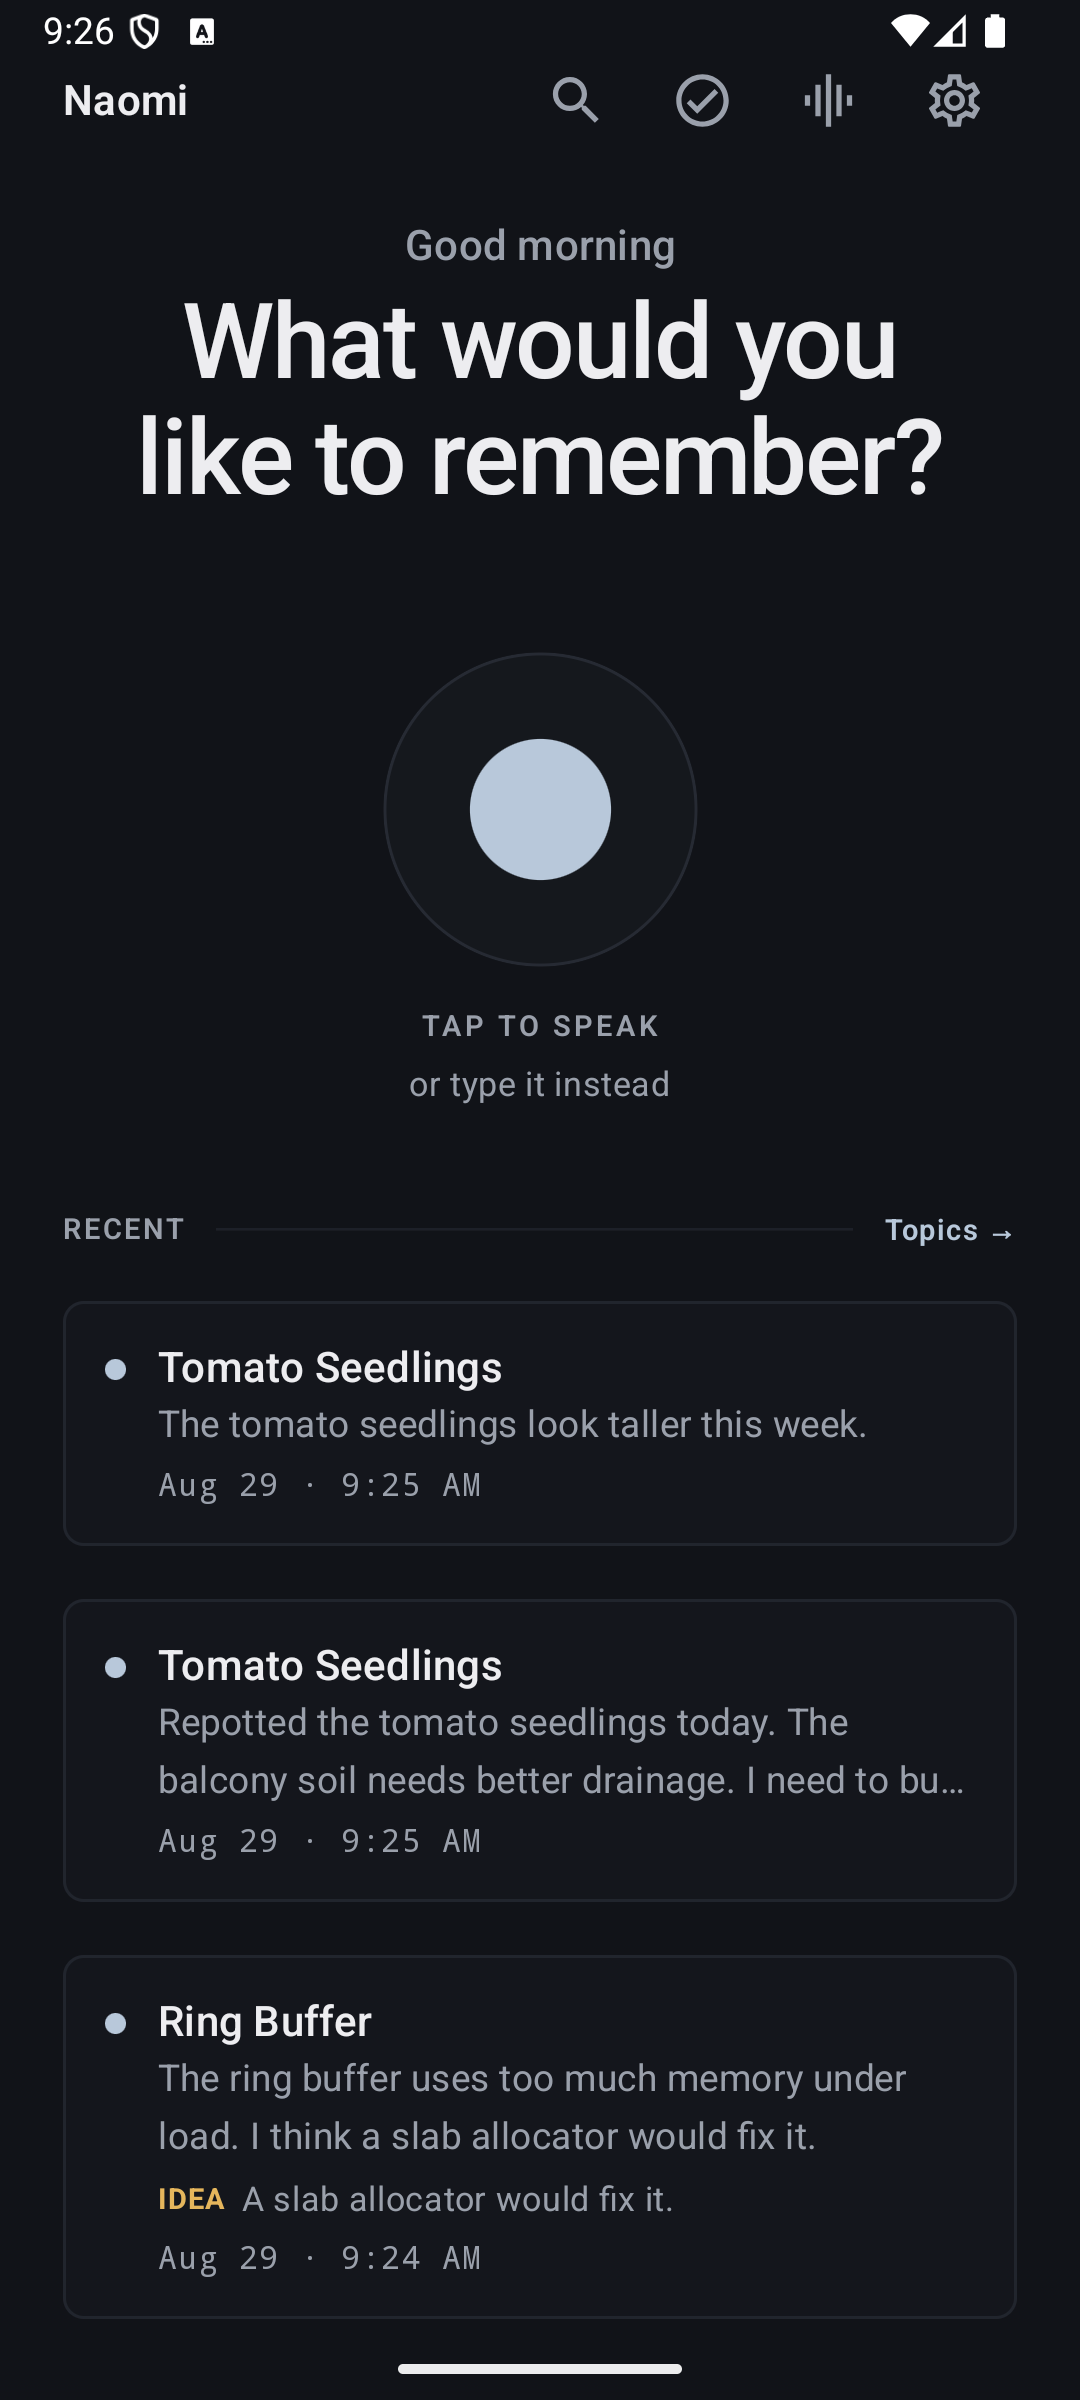
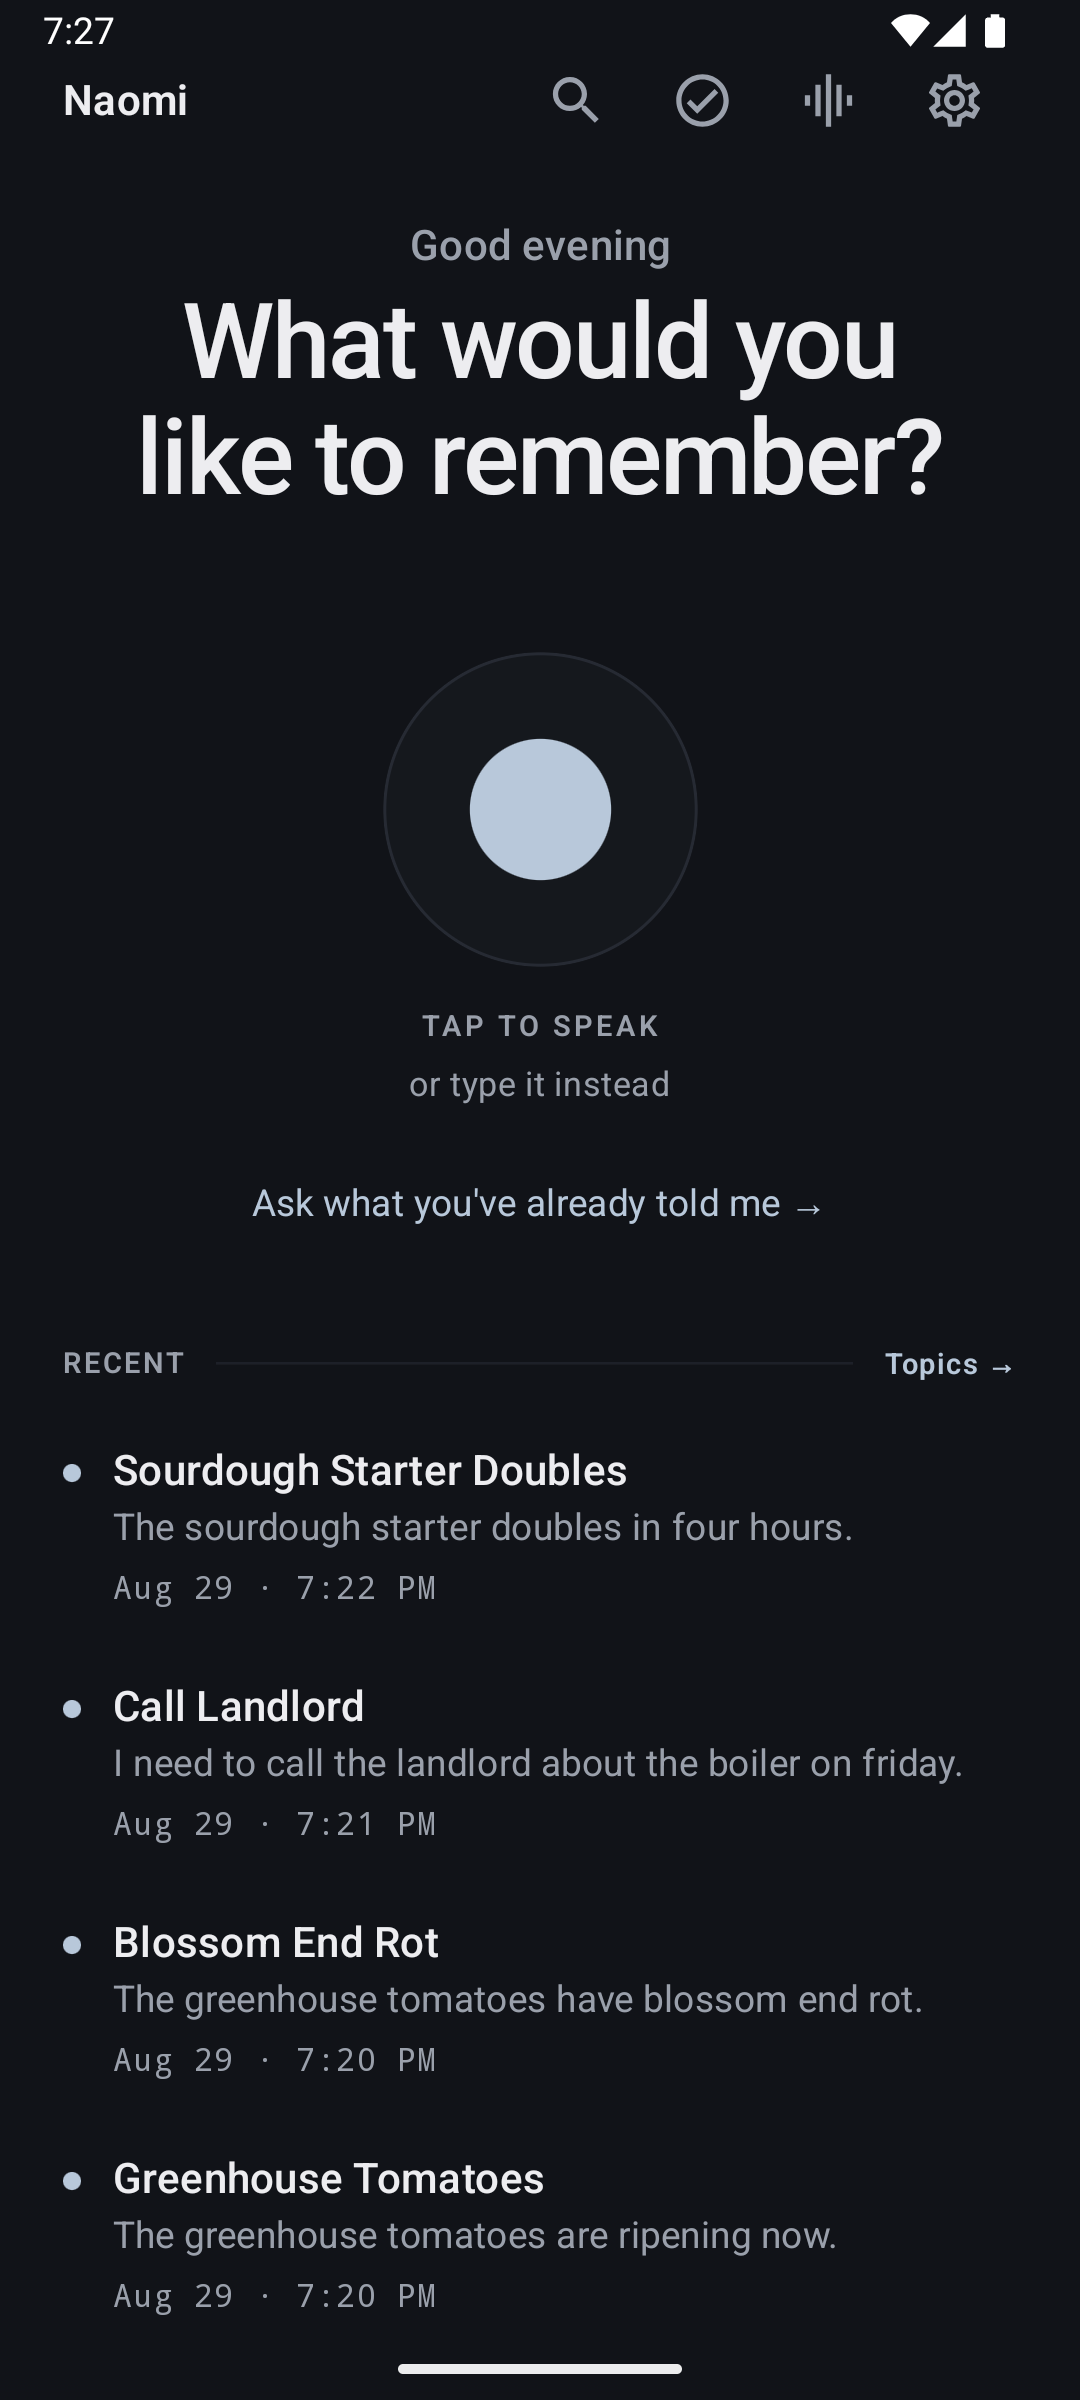
Real screenshots of the current app, and a README that matches it
Every screenshot predated the living-memory work, Ask Naomi, and the de-card
redesign, so the README was showing an app that no longer exists. All eleven
are recaptured from one session on a medium_phone emulator against the same
seeded memories, which is why the same greenhouse tomatoes run through all
of them.

The README now leads with what the app actually does. It described topic
grouping; the headline is now that saying more about something continues
that memory with a dated history instead of making a second note. The
example in the text is the one the screenshots show, so the two cannot
drift apart.

Two bugs found by taking the screenshots, both of which the test suite
could not have caught:

Opening a topic crashed. TopicDetailScreen lists subtopics, timeline days
and memories in one LazyColumn, keyed on raw database ids — but topic 2 and
note 2 are unrelated rows that happen to share an id, and Compose throws
when a key repeats. Any topic whose subtopic id collided with one of its
note ids died on open. Keys are now namespaced per table. Pre-existing, and
easy to never hit with a small database.

Related-topic pills could not wrap. A Row has no wrapping, so a third
related topic was squeezed into a sliver one character wide rather than
moving to the next line; the repository returns up to six. Now a FlowRow.

Also corrected in Status: reminders are inexact and Android gives them a
one-hour window; whether a thought continues a memory depends on what it
[…]

diff --git a/app/src/main/java/com/naomi/app/presentation/note/NoteDetailScreen.kt b/app/src/main/java/com/naomi/app/presentation/note/NoteDetailScreen.kt
@@ -6,6 +6,7 @@ import androidx.compose.foundation.background
 import androidx.compose.foundation.border
 import androidx.compose.foundation.clickable
 import androidx.compose.foundation.layout.*
+import androidx.compose.foundation.layout.FlowRow
 import androidx.compose.foundation.lazy.LazyColumn
 import androidx.compose.foundation.lazy.items
 import androidx.compose.foundation.shape.CircleShape
@@ -41,7 +42,7 @@ import com.naomi.app.presentation.theme.*
 import java.text.SimpleDateFormat
 import java.util.*
 
-@OptIn(ExperimentalMaterial3Api::class)
+@OptIn(ExperimentalMaterial3Api::class, ExperimentalLayoutApi::class)
 @Composable
 fun NoteDetailScreen(
     noteId: Long,
@@ -537,9 +538,14 @@ fun NoteDetailScreen(
                                         )
                                     }
 
-                                    Row(
+                                    // A Row cannot wrap, so a third related topic
+                                    // was squeezed into a sliver one character
+                                    // wide rather than moving to the next line.
+                                    // The repository returns up to six of these.
+                                    FlowRow(
                                         modifier = Modifier.fillMaxWidth(),
-                                        horizontalArrangement = Arrangement.spacedBy(8.dp)
+                                        horizontalArrangement = Arrangement.spacedBy(8.dp),
+                                        verticalArrangement = Arrangement.spacedBy(8.dp)
                                     ) {
                                         for (related in currentDetail.relatedTopics) {
                                             NaomiPill(

diff --git a/app/src/main/java/com/naomi/app/presentation/hierarchy/TopicDetailScreen.kt b/app/src/main/java/com/naomi/app/presentation/hierarchy/TopicDetailScreen.kt
@@ -184,7 +184,13 @@ fun TopicDetailScreen(
                     NaomiSectionHeader(title = "SUBTOPICS")
                 }
 
-                items(subtopics, key = { it.id }) { sub ->
+                // Keys are namespaced because this one LazyColumn lists rows from
+                // three different tables. Topic 2 and note 2 are unrelated rows
+                // with the same id, and Compose throws when a key repeats — so
+                // opening any topic whose subtopic id matched one of its note ids
+                // crashed the screen outright. Raw ids are only unique within
+                // their own table.
+                items(subtopics, key = { "sub-${it.id}" }) { sub ->
                     NaomiRow(onClick = { onNavigateToSubtopic(sub.id) }) {
                         Row(
                             modifier = Modifier.fillMaxWidth(),
@@ -214,7 +220,7 @@ fun TopicDetailScreen(
                     NaomiSectionHeader(title = "TIMELINE")
                 }
 
-                items(timelineDays, key = { it.label }) { day ->
+                items(timelineDays, key = { "day-${it.label}" }) { day ->
                     Column(verticalArrangement = Arrangement.spacedBy(NaomiSpacing.sm)) {
                         Text(
                             text = day.label,
@@ -288,7 +294,7 @@ fun TopicDetailScreen(
                     )
                 }
             } else {
-                items(notes, key = { it.id }) { note ->
+                items(notes, key = { "note-${it.id}" }) { note ->
                     MemoryRow(
                         note = note,
                         onClick = { onNavigateToNoteDetail(note.id) }

diff --git a/README.md b/README.md
@@ -15,39 +15,54 @@ filed, connected memory — without leaving your phone.
 
 ## What it does
 
-Most note apps give you a list. Naomi gives you a structure, built out of your own
-words as you go.
+Most note apps give you a list. Naomi gives you a subject that grows.
 
 Say this:
 
-> "The ring buffer in Nyx is stable now. Synchronisation between the producer and
-> consumer still drops frames. I need to profile the fence waits tomorrow."
+> "The greenhouse tomatoes are flowering early."
 
-Naomi produces:
+Naomi titles it **Greenhouse Tomatoes** and files it. Then, days later, you say:
 
-| | |
-|---|---|
-| **Title** | Ring Buffer |
-| **Filed under** | `Ring Buffer` |
-| **Task** | Profile the fence waits — due tomorrow, as a real date |
+> "I fixed the greenhouse tomatoes with crushed eggshell."
 
-Then say this, a day later:
-
-> "The ring buffer uses too much memory under load. I think a slab allocator would
-> fix it."
-
-It does **not** create a second "Ring Buffer" topic. It recognises the subject you
-already have, files the memory there, nests `Slab Allocator` beneath it, and pulls
-out the idea you flagged with "I think".
+It does **not** make a second note. It recognises the thing you are already
+talking about, adds this to that memory's history, and updates what the memory
+currently says. Say a third thing and it does the same. One subject, dated, in the
+order you said it:
 
 <div align="center">
-<img src="docs/screenshots/topics.png" width="260" alt="Knowledge tree" />
-<img src="docs/screenshots/memory.png" width="260" alt="A single memory with its topic path and extracted task" />
-<img src="docs/screenshots/tasks.png" width="260" alt="Tasks bucketed by resolved due date" />
+<img src="docs/screenshots/memory.png" width="260" alt="One memory with three dated entries under a HISTORY heading" />
+<img src="docs/screenshots/timeline.png" width="260" alt="A topic's timeline: everything said under it and everything beneath it" />
+<img src="docs/screenshots/topics.png" width="260" alt="The knowledge tree, with subtopics nested under the subject they came from" />
 </div>
 
-That grouping is the whole product. A note app that files every sentence under a
-new heading has not organised anything.
+Later, ask for it back in the words you would actually use:
+
+> "What did I say about the greenhouse tomatoes?"
+
+<div align="center">
+<img src="docs/screenshots/ask.png" width="260" alt="Ask Naomi answering a spoken question from local memories" />
+<img src="docs/screenshots/tasks.png" width="260" alt="Tasks bucketed by resolved due date" />
+<img src="docs/screenshots/search.png" width="260" alt="Search finding a word that appears only inside a memory's history" />
+</div>
+
+Nothing in that answer is generated. Every line is either a fixed phrase or text
+you recorded yourself — see [Ask Naomi](#ask-naomi) below.
+
+That accumulation is the whole product. A note app that files every sentence as a
+new item has not remembered anything; it has taken dictation.
+
+### Ask Naomi
+
+Recall runs entirely against the local store, and it never writes prose on your
+behalf. The one sentence Naomi says in its own voice reports counts — *"You've
+said 4 things about "greenhouse tomatoes", across 2 memories"* — so it has no way
+to be wrong about content. There is deliberately no generated-answer case in the
+`Answer` type.
+
+An assistant that invents a plausible memory is worse than one that says it has
+nothing, because you cannot tell the two apart. What Naomi hands back being what
+you actually said is the entire promise.
 
 ---
 
@@ -193,25 +208,43 @@ duplicate you can fix in one tap. The threshold reflects that asymmetry.
 
 ## Screenshots
 
-| Knowledge tree | Search | Settings |
+| Home | A memory and its history | A topic's timeline |
 |---|---|---|
-| <img src="docs/screenshots/topics.png" width="220" /> | <img src="docs/screenshots/search.png" width="220" /> | <img src="docs/screenshots/settings.png" width="220" /> |
+| <img src="docs/screenshots/home.png" width="220" alt="Home screen" /> | <img src="docs/screenshots/memory.png" width="220" alt="Memory detail with history" /> | <img src="docs/screenshots/timeline.png" width="220" alt="Topic timeline" /> |
 
-| Dark | Ambient mode | Widget |
+| Ask Naomi | Knowledge tree | Tasks |
 |---|---|---|
-| <img src="docs/screenshots/dark-mode.png" width="220" /> | <img src="docs/screenshots/ambient.png" width="220" /> | <img src="docs/screenshots/widget.png" width="220" /> |
+| <img src="docs/screenshots/ask.png" width="220" alt="Ask Naomi" /> | <img src="docs/screenshots/topics.png" width="220" alt="Knowledge tree" /> | <img src="docs/screenshots/tasks.png" width="220" alt="Tasks" /> |
 
-All screenshots are from the running app on a `medium_phone` emulator, not from
-mockups.
+| Search | Settings & Privacy Center | Ambient mode |
+|---|---|---|
+| <img src="docs/screenshots/search.png" width="220" alt="Search" /> | <img src="docs/screenshots/settings.png" width="220" alt="Settings" /> | <img src="docs/screenshots/ambient.png" width="220" alt="Ambient mode" /> |
+
+| Dark | Widget on the home screen |
+|---|---|
+| <img src="docs/screenshots/dark-mode.png" width="220" alt="Dark theme" /> | <img src="docs/screenshots/widget.png" width="220" alt="The widget pinned to the launcher" /> |
+
+All of these are the running app on a `medium_phone` emulator, captured from one
+session against the same memories — which is why the same greenhouse tomatoes
+appear across them. None are mockups.
+
+That is worth stating because it was not always true: earlier versions of this
+file showed a `widget.png` containing no widget and a `dark-mode.png` containing
+no dark mode, both the same stock launcher screenshot.
 
 ---
 
 ## Architecture
 
+Three Gradle modules. The split is the privacy boundary, not organisation for its
+own sake — see [what the networked code is allowed to know](#the-other-half-what-the-networked-code-is-allowed-to-know).
+
 ```
-app/src/main/java/com/naomi/app/
+app/                      The application. No network capability in the
+│                         offline flavour, which is the one that ships.
 ├── ai/intelligence/      Lexicon, KeyphraseExtractor, TopicResolver,
-│                         TopicMatcher, TaskExtractor, TemporalParser
+│                         TopicMatcher, MemoryMerger, TaskExtractor,
+│                         TemporalParser, QuestionParser, SharedTextParser
 ├── audio/                SpeechRecognizer wrapper + ambient foreground service
 ├── data/
 │   ├── database/         Room entities, DAOs, migrations, exported schemas
@@ -220,16 +253,29 @@ app/src/main/java/com/naomi/app/
 │   ├── intelligence/     IntelligenceProvider + Nano and heuristic providers
 │   ├── model/            Domain types
 │   ├── repository/       Repository interfaces
-│   └── usecases/         ProcessThoughtUseCase, SearchMemoriesUseCase, …
+│   └── usecases/         ProcessThought, AskNaomi, SyncReminders, …
 ├── presentation/         Compose UI, one package per screen
-│   ├── components/       NaomiOrb, NaomiCard, MemoryRow, empty states
+│   ├── components/       NaomiOrb, NaomiRow, MemoryRow, empty states
 │   └── theme/            Colour, type, spacing, shape, motion
+├── reminder/             AlarmManager scheduling + the one notification
+├── web/                  Flavour-specific: which WebReader, if any, exists
 └── widget/               RemoteViews home-screen widget (three sizes)
+
+web-api/                  Plain Kotlin. No Android plugin, so it cannot add a
+                          permission; no dependency on :app, so it has no type
+                          for a memory. A URL in, a page out.
+
+web-impl/                 The only module that can open a socket, and the only
+                          manifest that asks for INTERNET. Present in the
+                          `connected` flavour alone.
 ```
 
 Kotlin, Jetpack Compose, Material 3, Room, Coroutines/Flow, Navigation Compose.
-Around 9,700 lines across 82 files. No dependency injection framework —
-construction happens once in `NaomiApp`, which is enough at this size.
+Around 11,900 lines across 97 files, plus 650 lines of tests. No dependency
+injection framework — construction happens once in `NaomiApp`, which is enough at
+this size. No HTTP client: the module allowed to make requests uses
+`HttpURLConnection`, because a networking dependency is exactly the kind of thing
+that arrives with a telemetry uploader attached.
 
 **Capture is a `Flow<ProcessingStage>`.** Stages are emitted where the work
 actually happens. There are no artificial delays: an earlier version showed three
@@ -272,22 +318,36 @@ in the launcher process at inflate time.
 there should not be one.
 
 What works and is verified on a device: capture by voice or text, title and topic
-extraction, topic reuse across sessions, subtopic nesting, task extraction with
-resolved dates, search with context, the knowledge tree, Markdown export,
+extraction, topic reuse across sessions, subtopic nesting, **memories that
+continue instead of duplicating, with a dated history**, **topic timelines**,
+**Ask Naomi**, **sharing text and links in from other apps**, **reminders on the
+system clock that survive a reboot**, task extraction with resolved dates, search
+that reaches inside a memory's history, the knowledge tree, Markdown export,
 persisted System/Light/Dark theming, and the home-screen widget in three sizes.
 
 Known limitations, stated plainly:
 
-- Topic names come from your own words. A first memory about tomato seedlings
-  creates a topic called "Tomato Seedlings", not "Gardening" — Naomi will not
-  invent a category you did not say. Depth appears as you keep talking.
-- Two memories genuinely about the same thing can share a title. The summary in
-  the list is what distinguishes them.
+- Topic and memory names come from your own words. A first memory about tomato
+  seedlings creates a topic called "Tomato Seedlings", not "Gardening" — Naomi
+  will not invent a category you did not say. Depth appears as you keep talking.
+- **Whether a new thought continues a memory depends on what it gets titled.**
+  Saying "the greenhouse tomatoes have blossom end rot" is titled *Blossom End
+  Rot*, which is far enough from *Greenhouse Tomatoes* that it becomes its own
+  memory under the same topic. That threshold is deliberately strict: wrongly
+  merging two subjects buries one inside the other's history where you will never
+  find it, while wrongly splitting leaves two entries you can see.
+- Reminders are **inexact**. Measured on device, Android gives them a one-hour
+  window. The 09:00 in "remind me tomorrow" was chosen by the parser, not by you,
+  so asking for the restricted exact-alarm permission would take something in
+  exchange for precision nobody specified. See `ReminderScheduler`.
 - Inter is specified by the design but not bundled; the app uses the platform
   sans-serif. The scale, weights and tracking are what carry the design, and
   those survive the substitution. See `theme/Type.kt`.
-- Instrumented UI tests are not written yet; coverage is unit tests over the
-  intelligence layer plus manual device verification.
+- Instrumented UI tests are not written yet; coverage is 56 unit tests over the
+  intelligence layer plus manual device verification. That gap is real: several
+  bugs this project has shipped and fixed — a crash when a subtopic id happened
+  to match a note id, reminders silently dropped because a permission was never
+  requested — were found by driving the app, not by the suite.
 
 See [CHANGELOG.md](CHANGELOG.md) for what changed and [ROADMAP.md](ROADMAP.md) for
 what is next.
